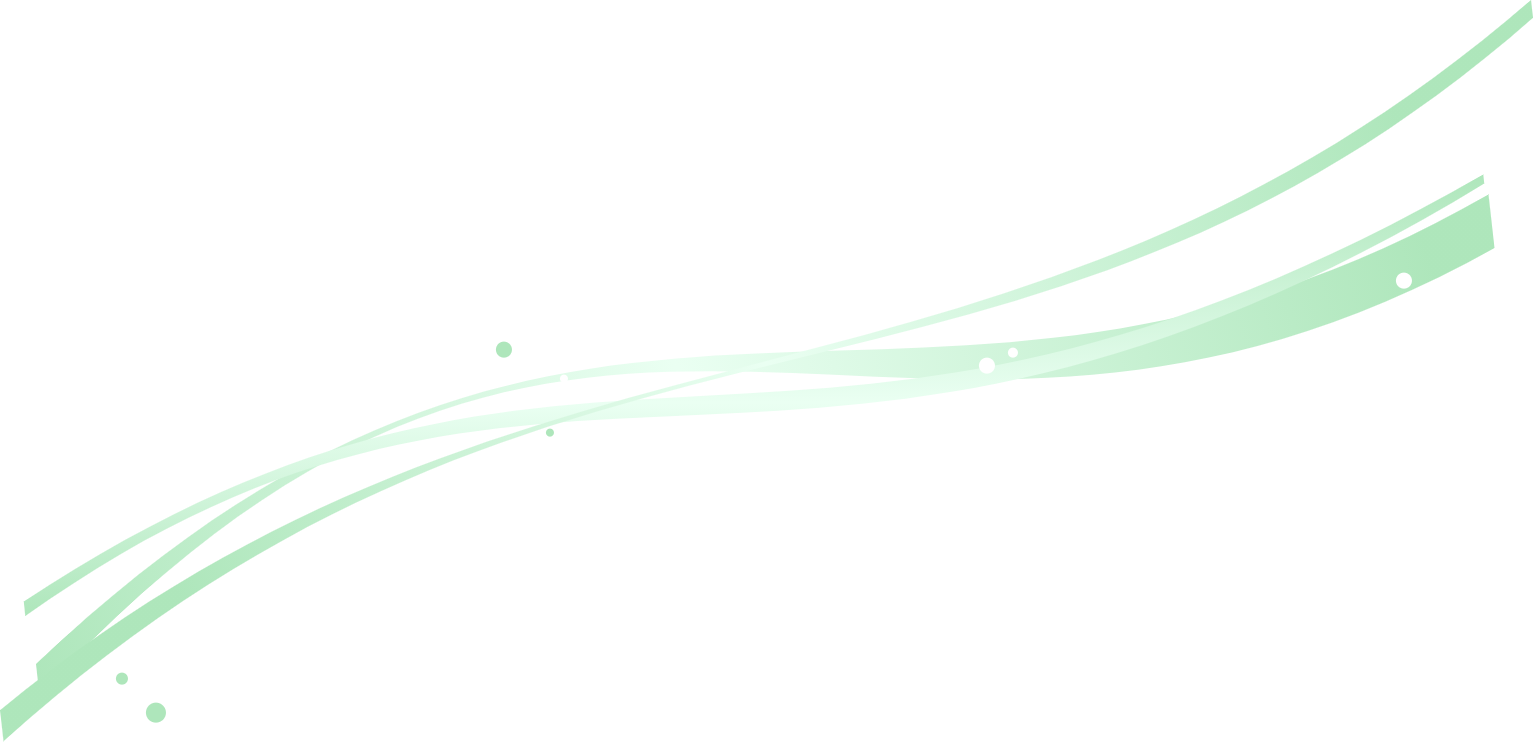
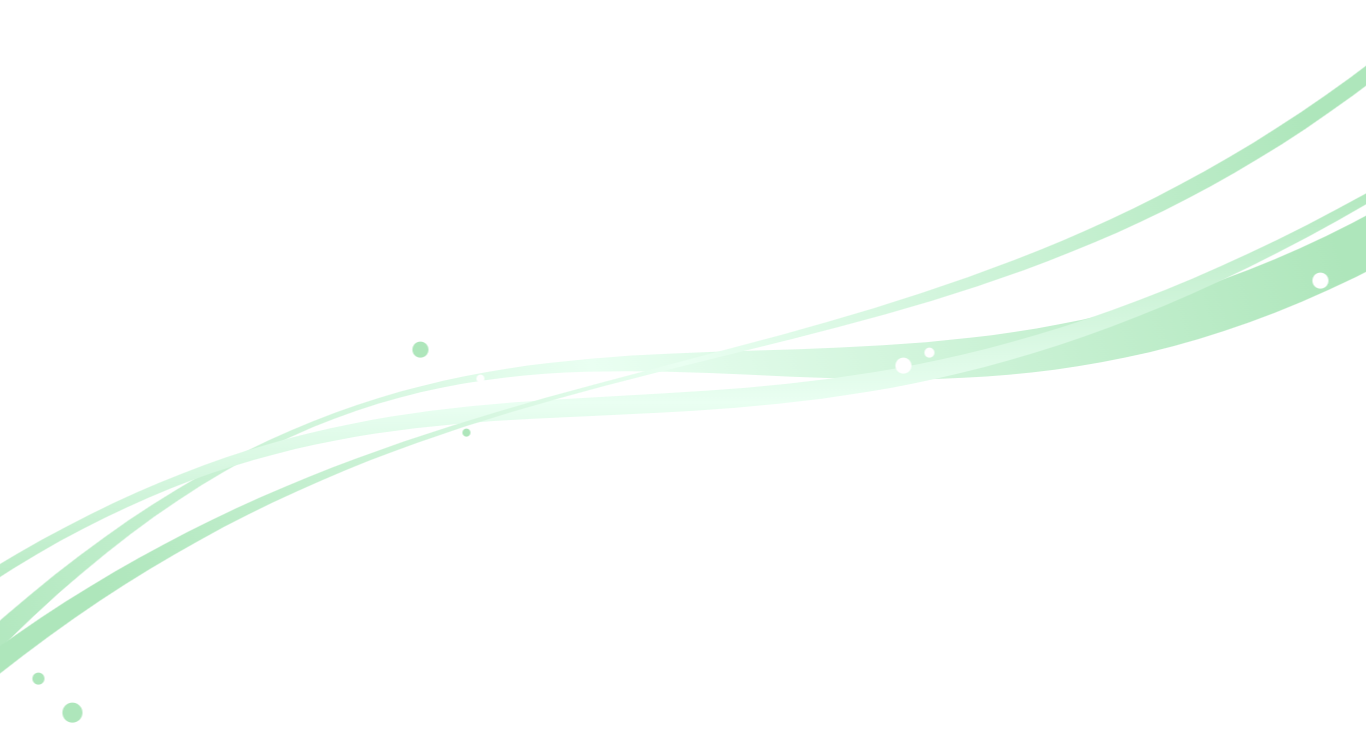
hsh-page21-testin and replace sugi-smile common bg-image

diff --git a/sugi-smile/company/index.html b/sugi-smile/company/index.html
@@ -25,7 +25,7 @@
 				<div class="breadcrumb smile-breadcrumb">
 					<ul class="breadcrumb-list">
 						<li>
-							<a href="/sugi-smile/index.html">TOP</a>
+							<a href="/sugi-smile/">TOP</a>
 						</li>
 						<li>
 							会社情報
